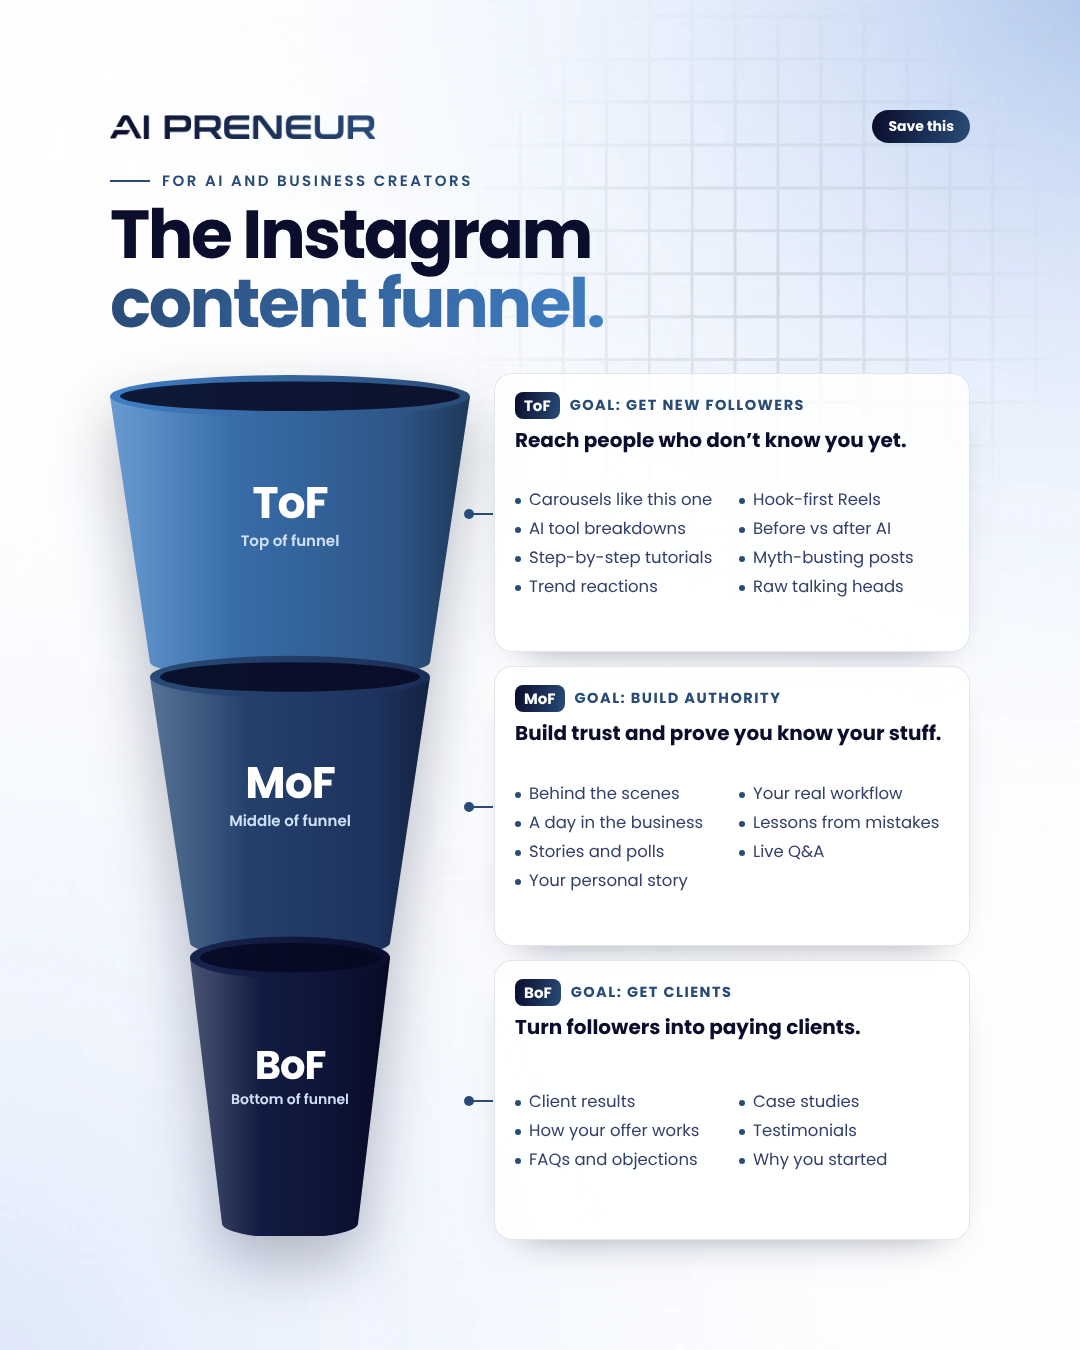
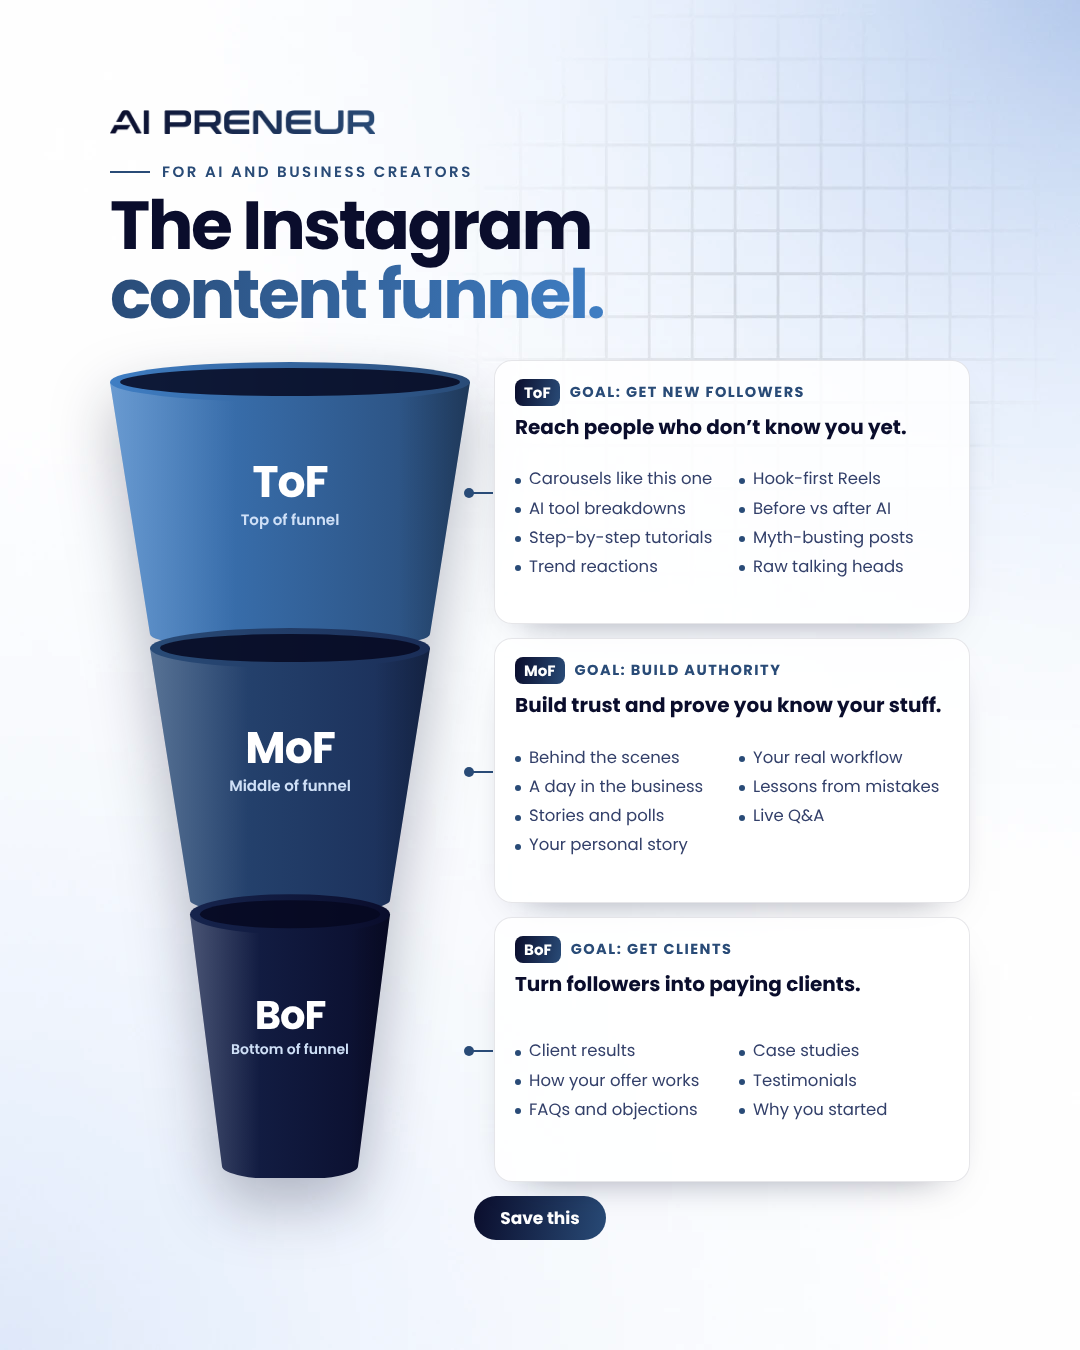
Content funnel: move Save this pill to the bottom
Claude-Session: https://claude.ai/code/session_01FYKeHLx1qY2bAhSHR89JeA

diff --git a/projects/content-funnel/style.css b/projects/content-funnel/style.css
@@ -51,3 +51,5 @@ h1 span{background:linear-gradient(100deg,#294b77,#3f7ec4);-webkit-background-cl
 .hero img{-webkit-mask-image:radial-gradient(ellipse 46% 48% at 52% 46%,#000 40%,transparent 100%);mask-image:radial-gradient(ellipse 46% 48% at 52% 46%,#000 40%,transparent 100%)}
 .fw{height:100%}.fn{height:100%}
 .hero{right:110px;top:112px;width:340px;height:270px}.fw{height:calc(100% - 4px)}
+.sv{margin-top:18px;display:flex;justify-content:center}.sv .save{font-size:17px;padding:9px 26px}
+.sv{margin-top:14px}.body{margin-top:26px}

diff --git a/projects/content-funnel/build.py b/projects/content-funnel/build.py
@@ -32,9 +32,10 @@ cards = "".join(f'''<div class="cd c{i}"><div class="ch"><b>{k}</b><span>Goal: {
 CSS = (D / "style.css").read_text()
 (D / "carousel.html").write_text(f'''<!doctype html><html lang="en"><head><meta charset="utf-8"><title>Content Funnel</title><style>{CSS}</style></head><body>
 <section class="slide">
- <div class="tp"><img class="logo" src="assets/logo_navy.png" alt="AIpreneur"><span class="save">Save this</span></div>
+ <div class="tp"><img class="logo" src="assets/logo_navy.png" alt="AIpreneur"></div>
  <div class="label">For AI and business creators</div>
  <h1>The Instagram<br><span>content funnel.</span></h1>
  <div class="body"><div class="fw">{svg}{labels}</div><div class="cards">{cards}</div></div>
+ <div class="sv"><span class="save">Save this</span></div>
 </section></body></html>''')
 print("ok")
